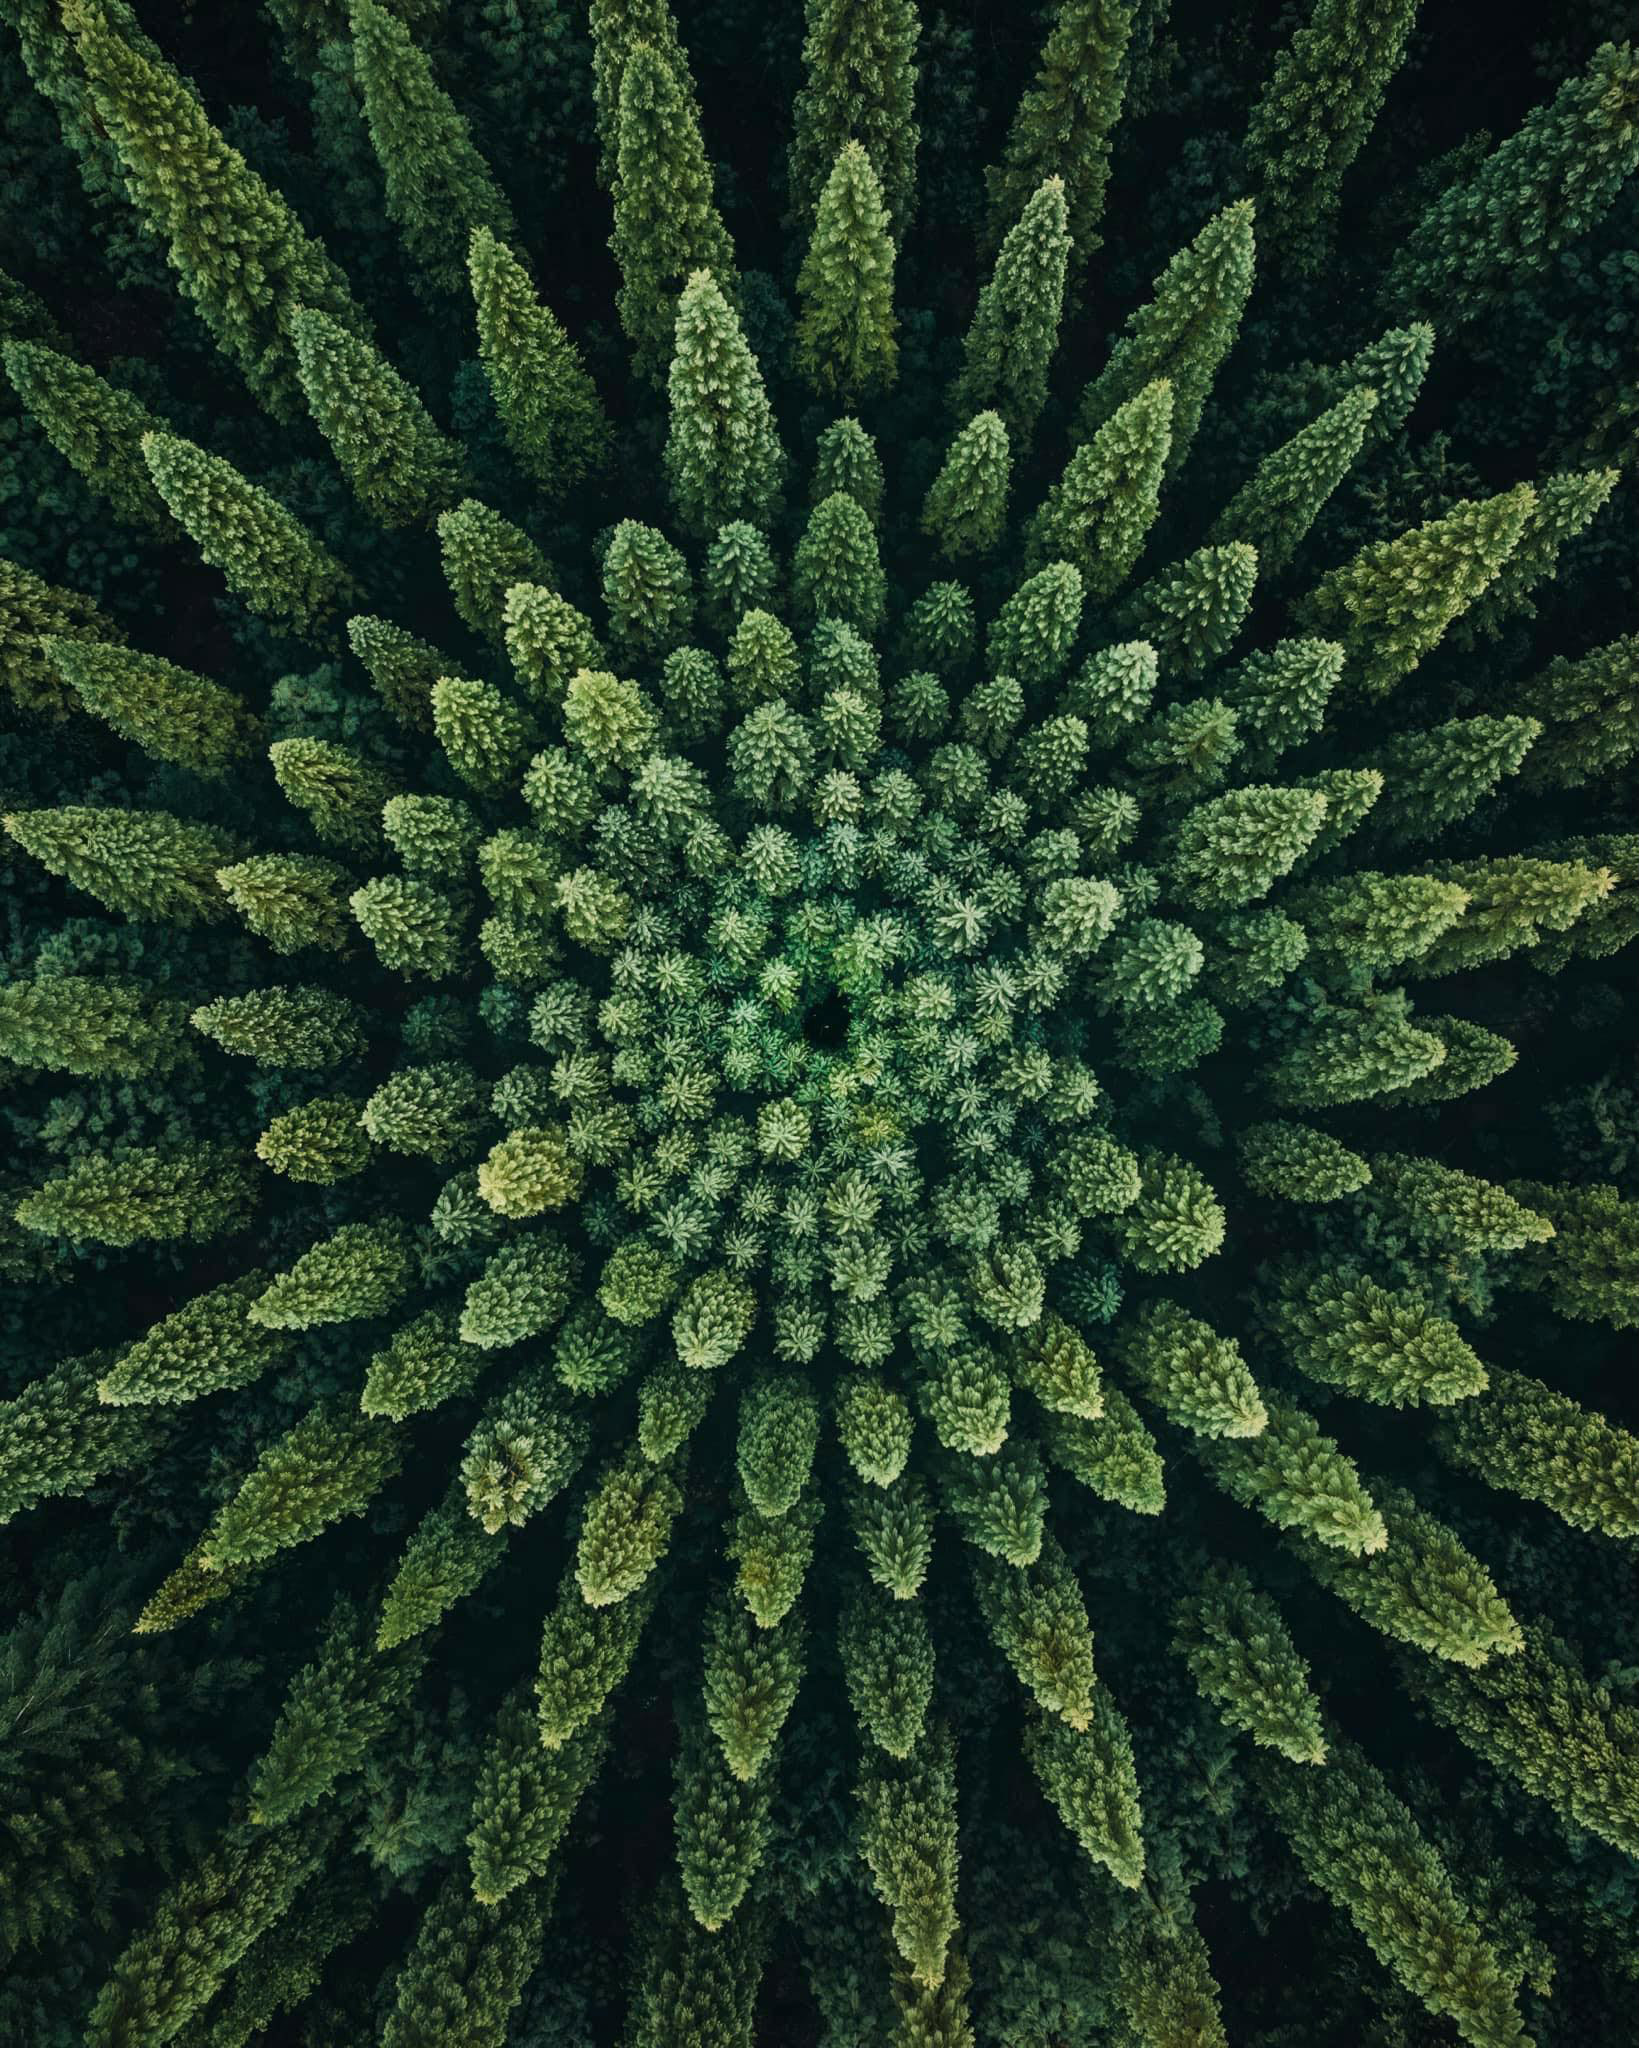
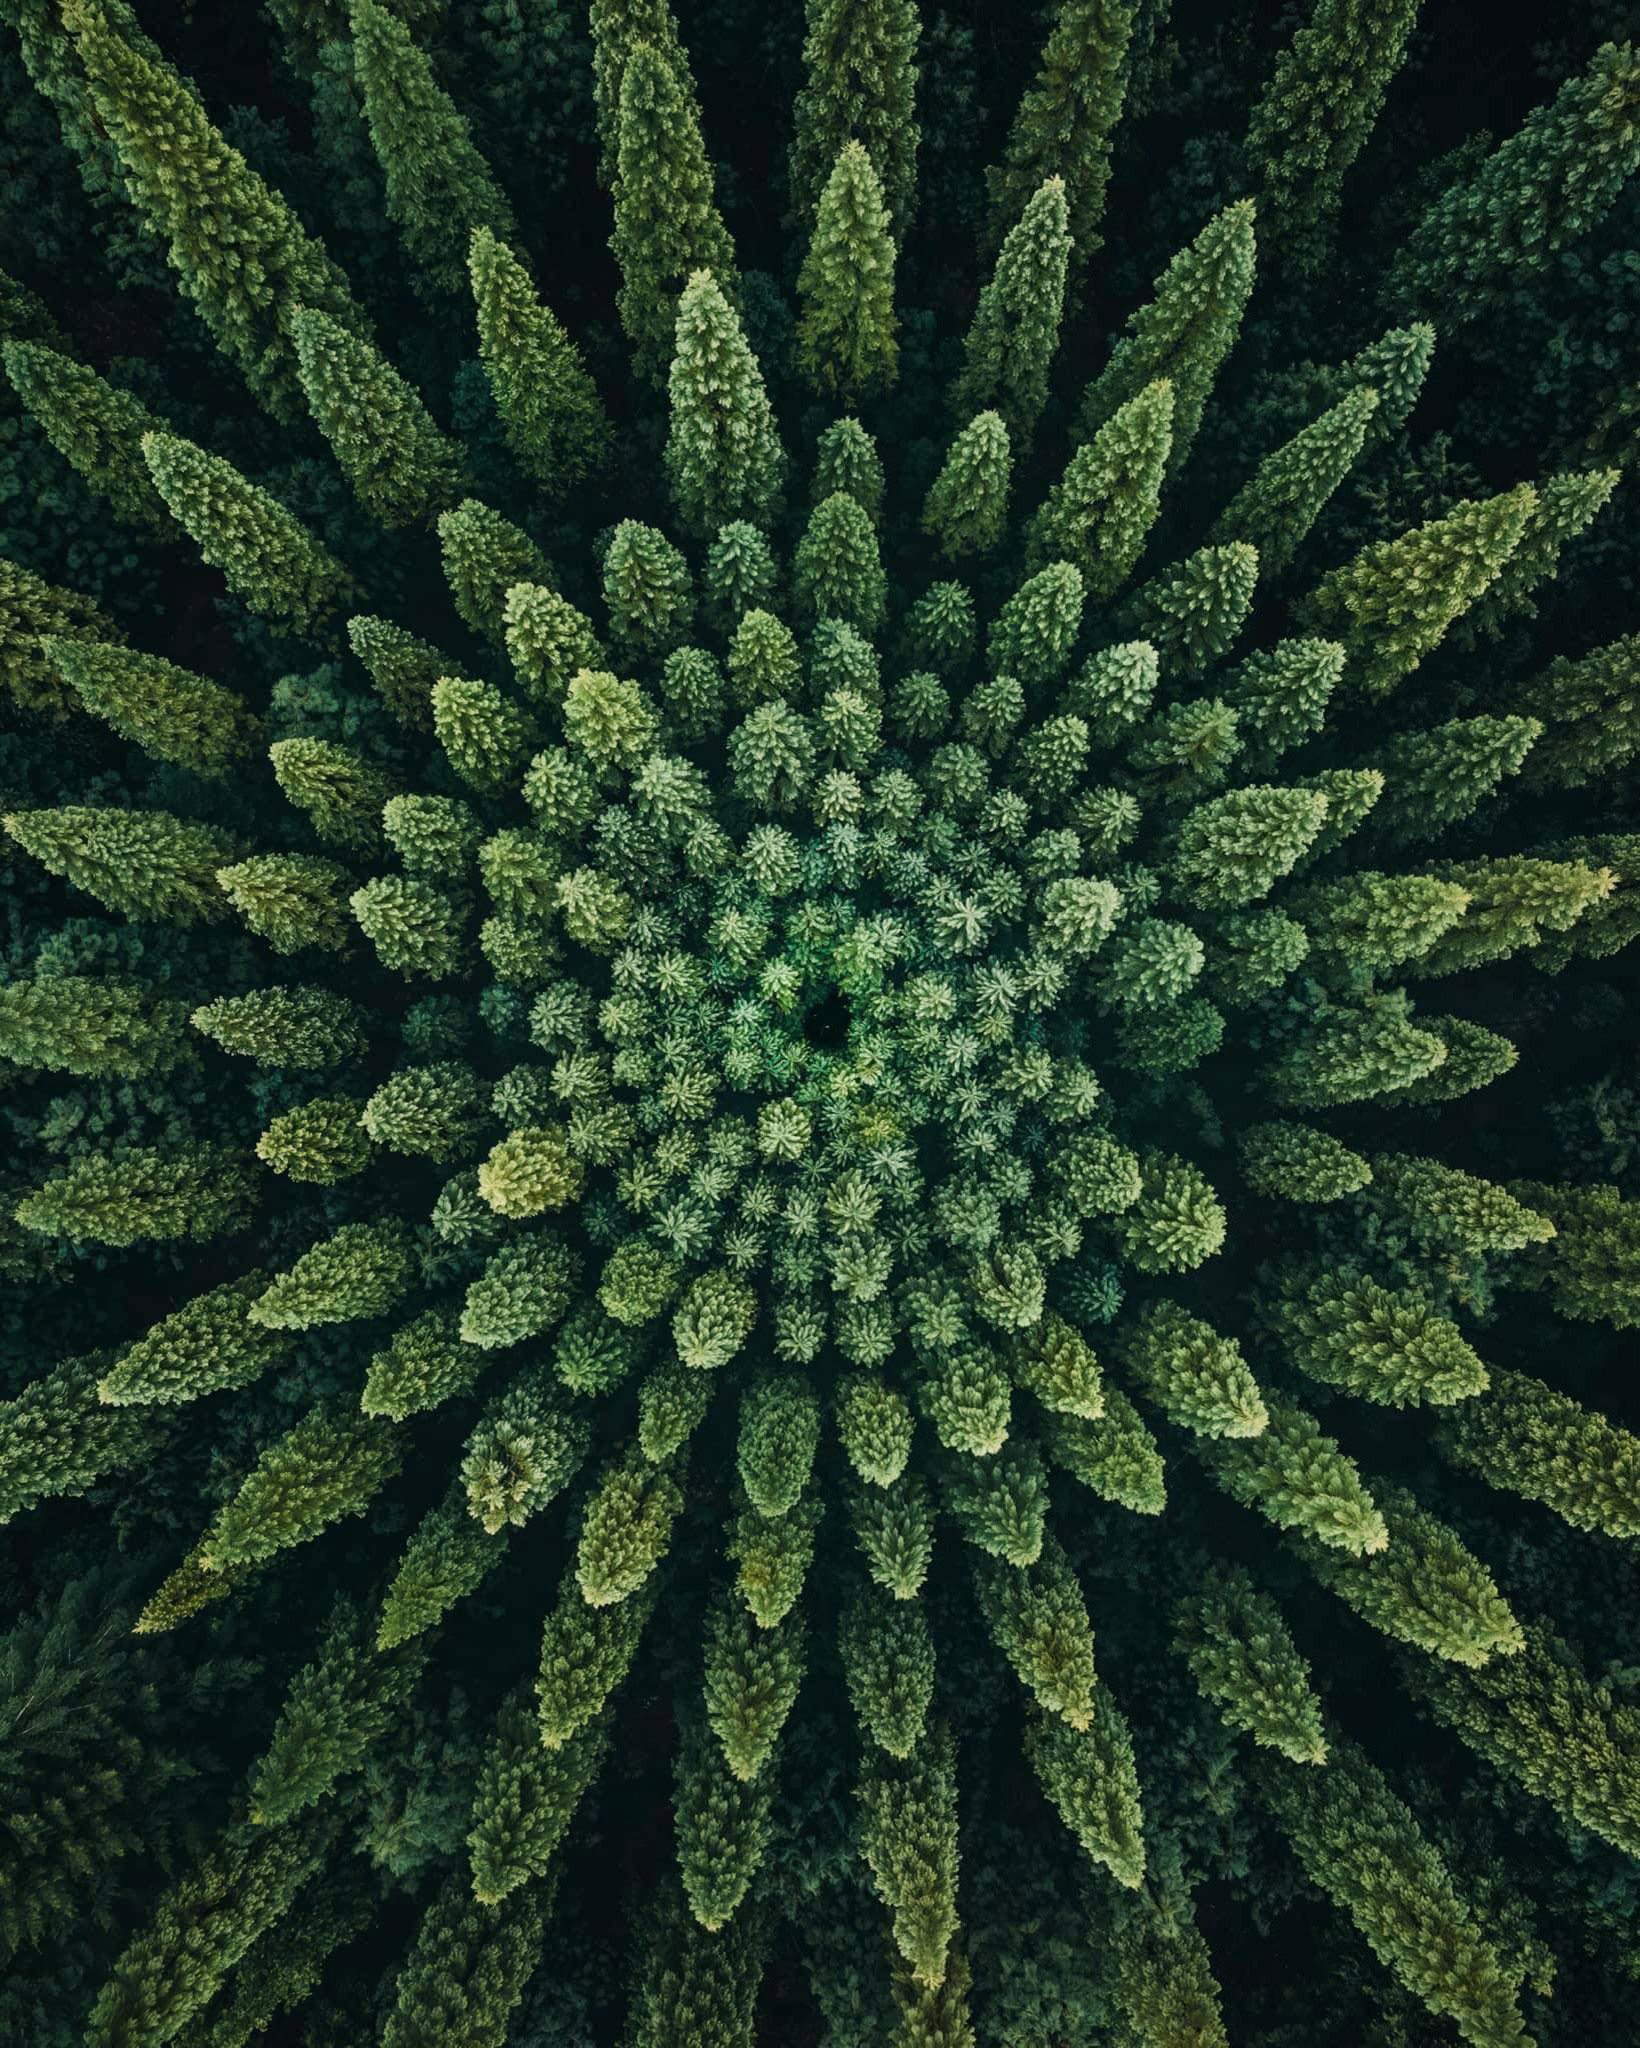
add server and trees-white_v1.jpg

diff --git a/src/components/ImageLightbox.vue b/src/components/ImageLightbox.vue
@@ -18,10 +18,6 @@ const open = defineModel<boolean>('open', { required: true })
       overlay-class="bg-black/80"
       class="flex flex-col items-center gap-6 w-[90vw] max-w-2xl sm:max-w-2xl rounded-2xl ring-0 border border-white/10 bg-white/5 backdrop-blur-md p-8 shadow-2xl"
     >
-      <DialogTitle class="text-sm font-normal break-all text-center">
-        {{ title }}
-      </DialogTitle>
-
       <img
         v-if="src"
         :src="src"
@@ -29,13 +25,17 @@ const open = defineModel<boolean>('open', { required: true })
         class="max-h-[60vh] max-w-full object-contain"
       />
 
+      <DialogTitle class="text-sm font-normal break-all text-center">
+        {{ title }}
+      </DialogTitle>
+
       <a
         :href="src"
         target="_blank"
         class="inline-flex items-center gap-1.5 text-xs text-white/70 hover:text-white transition-colors"
       >
-        <ExternalLink class="size-3.5" :stroke-width="2" />
         Open original
+        <ExternalLink class="size-3.5" :stroke-width="2" />
       </a>
     </DialogContent>
   </Dialog>

diff --git a/src/components/Item.vue b/src/components/Item.vue
@@ -30,7 +30,7 @@ function onClick(e: MouseEvent) {
     <img
       :src="`/assets/img/${folder}/${image}`"
       :alt="image.replace('_th.jpg', '')"
-      class="w-32 h-32 mb-3 object-cover rounded-sm"
+      class="w-32 h-32 mb-3 object-contain rounded-sm"
       loading="lazy"
     />
     <span class="text-white text-xs text-center break-all w-36">

diff --git a/src/data/release-images.ts b/src/data/release-images.ts
@@ -97,7 +97,7 @@ export const releaseImages = [
   'vorg-cyber-soul-day_th.jpg', // 2025-06-27
   'syned-brain-dementor-mysterium-tremendum_th.jpg', // 2025-07-25
   'gaz-mask-12-years_th.jpg', // 2025-12-05
-  'alien-immigrant-plant-medicine_th.jpg', // 2026-06-05
+  'alien-immigrant-plant-medicine_th.jpg', // 2026-06-05 UNRELEASED
   'frog-prog-songs-of-buffo_th.jpg', // 2026-06-12 UNRELEASED
   'vorg-cyber-soul-chill_th.jpg', // 2026-06-19 UNRELEASED
 ]

diff --git a/src/data/background-images.ts b/src/data/background-images.ts
@@ -13,4 +13,5 @@ export const backgroundImages = [
   'sombrero-red_2x.jpg',
   'trees-origin_v1.jpg',
   'trees-green_v5.jpg',
+  'trees-white_v1.jpg',
 ]